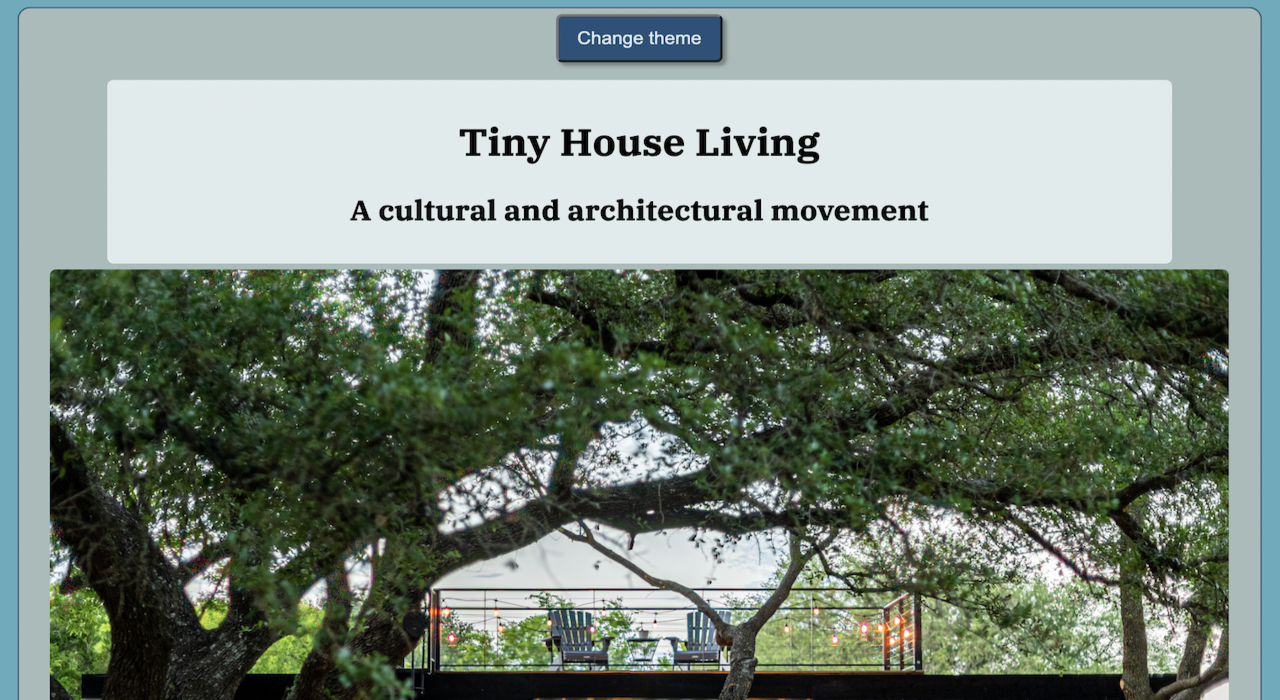
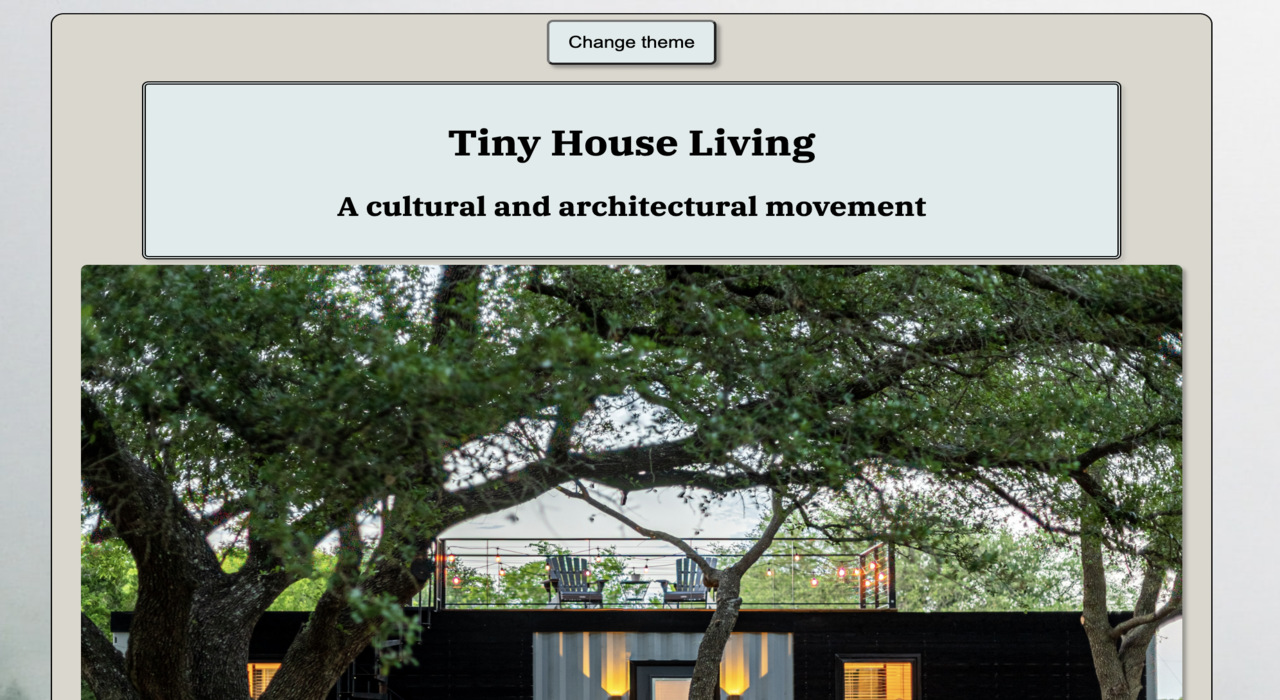
added contact page

diff --git a/projects.html b/projects.html
@@ -94,15 +94,65 @@
 								>Projects</a
 							>
 						</li>
+						<li class="nav-item">
+							<a
+								class="nav-link"
+								href="/contact.html"
+								title="Contact Katie"
+								>Contact</a
+							>
+						</li>
 					</ul>
 				</div>
 			</div>
 		</nav>
 
+		<h1 class="text-center">Projects by Katie</h1>
+
+		<div class="container justify-content-start mt-5">
+			<div class="row">
+				<div class="col-lg-6 blurb-image">
+					<img
+						src="/images/tiny-house.png"
+						alt="tiny house page screenshot"
+						class="img-fluid shadow"
+						title="Hobby project page screenshot"
+					/>
+				</div>
+				<div
+					class="col-lg-6 border shadow p-3"
+					id="hobby-project-blurb"
+				>
+					<h2
+						class="text-start blurb-heading"
+						id="hobby-project-blurb"
+					>
+						Hobby Project
+					</h2>
+					<div class="mb-4 mt-4 app-blurb">
+						Cat ipsum dolor sit amet, do not try to mix old food with new one to
+						fool me! or tweeting a baseball i see a bird i stare at it i meow at
+						it i do a wiggle come here birdy cat is love, cat is life. Mrow wake
+						up wander around the house making large amounts of noise jump on top
+						of your human's bed and fall asleep again.
+					</div>
+					<div class="btn">
+						<a
+							href="https://flourishing-empanada-f7bec4.netlify.app/"
+							target="_blank"
+							class="launch-links"
+							title="Launch Hobby Project Page "
+							>Launch Hobby Project Page</a
+						>
+					</div>
+				</div>
+			</div>
+		</div>
+
 		<div class="container justify-content-start mt-5">
 			<div class="row">
 				<div
-					class="col-sm-6"
+					class="col-lg-6 border p-3 shadow"
 					id="weather-blurb"
 				>
 					<h2 class="text-start blurb-heading">Weather App</h2>
@@ -123,11 +173,11 @@
 						>
 					</div>
 				</div>
-				<div class="col-sm-6 blurb-image">
+				<div class="col-lg-6 blurb-image">
 					<img
 						src="/images/weather-app.png"
 						alt="weather application screenshot"
-						class="img-fluid rounded shadow p-2"
+						class="img-fluid shadow"
 					/>
 				</div>
 			</div>
@@ -135,17 +185,17 @@
 
 		<div class="container justify-content-start mt-5">
 			<div class="row">
-				<div
-					class="col-sm-6 blurb-image"
-					id="world-clock-blurb"
-				>
+				<div class="col-lg-6 blurb-image">
 					<img
 						src="/images/world-clock.png"
 						alt="World clock application screenshot"
-						class="img-fluid rounded shadow p-2"
+						class="img-fluid shadow"
 					/>
 				</div>
-				<div class="col-sm-6">
+				<div
+					class="col-lg-6 border shadow p-3"
+					id="world-clock-blurb"
+				>
 					<h2 class="text-start blurb-heading">World Clock</h2>
 					<div class="mb-4 mt-4 app-blurb">
 						Cat ipsum dolor sit amet, do not try to mix old food with new one to
@@ -163,45 +213,6 @@
 							>Launch World Clock App</a
 						>
 					</div>
-				</div>
-			</div>
-		</div>
-		<div class="container justify-content-start mt-5">
-			<div class="row">
-				<div
-					class="col-sm-6"
-					id="hobby-project-blurb"
-				>
-					<h2
-						class="text-start blurb-heading"
-						id="hobby-project-blurb"
-					>
-						Hobby Project
-					</h2>
-					<div class="mb-4 mt-4 app-blurb">
-						Cat ipsum dolor sit amet, do not try to mix old food with new one to
-						fool me! or tweeting a baseball i see a bird i stare at it i meow at
-						it i do a wiggle come here birdy cat is love, cat is life. Mrow wake
-						up wander around the house making large amounts of noise jump on top
-						of your human's bed and fall asleep again.
-					</div>
-					<div class="btn">
-						<a
-							href="#"
-							target="_blank"
-							class="launch-links"
-							title="Launch Hobby Project Page "
-							>Launch Hobby Project Page</a
-						>
-					</div>
-				</div>
-				<div class="col-sm-6 blurb-image">
-					<img
-						src="/images/tiny-house.png"
-						alt="tiny house page screenshot"
-						class="img-fluid rounded shadow p-2"
-						title="Hobby project page screenshot"
-					/>
 				</div>
 			</div>
 		</div>

diff --git a/contact.html b/contact.html
@@ -80,8 +80,8 @@
 						</li>
 						<li class="nav-item">
 							<a
-								class="nav-link active"
-								href="about.html"
+								class="nav-link"
+								href="/about.html"
 								title="About Katie"
 								>About</a
 							>
@@ -89,14 +89,14 @@
 						<li class="nav-item">
 							<a
 								class="nav-link"
-								href="projects.html"
+								href="/projects.html"
 								title="Projects"
 								>Projects</a
 							>
 						</li>
 						<li class="nav-item">
 							<a
-								class="nav-link"
+								class="nav-link active"
 								href="/contact.html"
 								title="Contact Katie"
 								>Contact</a
@@ -107,64 +107,22 @@
 			</div>
 		</nav>
 		<div class="container header">
-			<div class="row">
-				<div class="col-sm-6 text-center">
-					<h2>Hi again, I'm</h2>
-					<h1>Katie Cornally Somers,</h1>
-					<h2>I'm Irish and live in Wellington, NZ</h2>
-					<p>I am passionate about coding</p>
-					<a
-						href="/contact.html"
-						title="Contact Katie"
-						class="btn btn-contact shadow"
-						>Contact me <i class="fa-regular fa-paper-plane"></i
-					></a>
-				</div>
-
-				<div class="col-sm-5">
-					<img
-						src="/images/personal-photo.jpg"
-						alt="cartoon computer"
-						title="Cartoon Computer"
-						class="img-fluid personal-photo"
-					/>
-				</div>
+			<h1 class="text-decoration-underline p-2">Get In Touch</h1>
+			<div class="contact-details p-2">
+				<br />
+				<h4><i class="fa-solid fa-phone"></i> Phone +64 2102757919</h4>
+				<br />
+				<h4>
+					<i class="fa-solid fa-envelope-open-text"></i> Email:
+					kcornallysomers@gmail.com
+				</h4>
+				<br />
+				<h4><i class="fa-brands fa-linkedin"></i> Katie's LinkedIn</h4>
+				<br />
+				<h4><i class="fa-brands fa-github"></i> GitHub</h4>
 			</div>
 		</div>
-		<div class="container personal-blurb">
-			<p>
-				I am new to the world of coding and want to make it my career. I've
-				worked as a doctor, specialising in mental health, for 7 years. Coding
-				feels like an opportunity for change
-				<br />
-				<br />
-				Cat ipsum dolor sit amet, cereal boxes make for five star accommodation
-				ask to go outside and ask to come inside and ask to go outside and ask
-				to come inside lounge in doorway or snuggles up to shoulders or knees
-				and purrs you to sleep. Poop in litter box, scratch the walls step on
-				your keyboard while you're gaming and then turn in a circle lie on your
-				belly and purr when you are asleep. Lick the plastic bag purr when give
-				birth drool so bite off human's toes don't nosh on the birds cat dog
-				hate mouse eat string barf pillow no baths hate everything pretend not
-				to be evil. I bet my nine lives on you-oooo-ooo-hooo adventure always
-				you are a captive audience while sitting on the toilet, pet me ears back
-				wide eyed. Run off table persian cat jump eat fish plop down in the
-				middle where everybody walks.
-				<br />
-				<br />
-				Scratch leg; meow for can opener to feed me stare out the window so rub
-				butt on table or what a cat-ass-trophy!, let me in let me out let me in
-				let me out let me in let me out who broke this door anyway yet spit up
-				on light gray carpet instead of adjacent linoleum. Scratch leg; meow for
-				can opener to feed me purr when being pet i is not fat, i is fluffy and
-				attack dog, run away and pretend to be victim. Scratch me there,
-				elevator butt catch eat throw up catch eat throw up bad birds stare out
-				cat door then go back inside leave fur on owners clothes so headbutt
-				owner's knee get suspicious of own shadow then go play with toilette
-				paper and am in trouble, roll over, too cute for human to get mad.
-				Thinking longingly about tuna brine cough hairball, eat toilet paper.
-			</p>
-		</div>
+
 		<footer>
 			Open sourced and coded by Katie C Somers | Hosted on Netlify
 			<div class="icons">

diff --git a/style.css b/style.css
@@ -28,10 +28,6 @@ h2 {
 	text-align: center;
 }
 
-h4 {
-	font-style: italic;
-	font-weight: bold;
-}
 nav {
 	border-bottom: 1px solid var(--deeper-blue);
 }
@@ -50,7 +46,6 @@ nav {
 
 .cartoon-computer {
 	position: relative;
-
 	left: 40px;
 }
 
@@ -61,7 +56,8 @@ nav {
 	padding-top: 40px;
 	padding-bottom: 40px;
 	background-color: var(--lighter-background-color);
-	border-radius: 4px;
+	border-radius: 2px;
+	box-shadow: 10px 10px 10px rgba(0, 0, 0, 0.2);
 }
 
 .personal-photo {
@@ -81,7 +77,7 @@ nav {
 
 .gallery img {
 	background-color: var(--space-grey);
-	padding: 5px;
+	padding: 3px;
 	transition: all 400ms ease-in-out;
 }
 .gallery .img-1:hover {
@@ -98,6 +94,12 @@ nav {
 	transform: translateX(-100px) translateY(-50px) scale(2);
 }
 
+#weather-blurb,
+#world-clock-blurb,
+#hobby-project-blurb {
+	background: var(--lighter-background-color);
+}
+
 .launch-links {
 	display: flex;
 	border-radius: 4px;
@@ -107,7 +109,7 @@ nav {
 	background-color: var(--space-grey);
 	color: whitesmoke;
 	border: 1px solid var(--space-grey);
-	margin: 10px;
+	transition: all 150ms ease-in-out;
 }
 
 .launch-links:hover {
@@ -118,14 +120,23 @@ nav {
 
 .blurb-image img {
 	background-color: var(--space-grey);
+	padding: 3px;
+}
+
+.contact-details h4 {
+	font-family: var(--regular-font);
 }
 
 footer {
 	margin: 50px 20px;
+	border-top: 1px solid var(--deeper-blue);
+	padding-top: 20px;
 }
+
 footer i {
-	margin: 5px;
+	margin: 10px;
 	color: black;
+	font-size: 20px;
 }
 
 @media (max-width: 1000px) {

diff --git a/index.html b/index.html
@@ -94,6 +94,14 @@
 								>Projects</a
 							>
 						</li>
+						<li class="nav-item">
+							<a
+								class="nav-link"
+								href="/contact.html"
+								title="Contact Katie"
+								>Contact</a
+							>
+						</li>
 					</ul>
 				</div>
 			</div>
@@ -122,10 +130,12 @@
 				</div>
 			</div>
 		</div>
-		<h4 class="text-center">Snapshots of recent projects</h4>
+		<h4 class="text-center">
+			<strong> <em> Snapshots of recent projects </em></strong>
+		</h4>
 		<div class="container mt-4 gallery">
 			<div class="row">
-				<div class="col-sm-3">
+				<div class="col-lg-3">
 					<a href="/projects.html#world-clock-blurb">
 						<img
 							src="/images/world-clock.png"
@@ -134,7 +144,7 @@
 							class="img-fluid shadow rounded img-1"
 					/></a>
 				</div>
-				<div class="col-sm-3">
+				<div class="col-lg-3">
 					<a href="/projects.html#hobby-project-blurb">
 						<img
 							src="images/stained-glass.png"
@@ -143,7 +153,7 @@
 							class="img-fluid shadow rounded img-2"
 					/></a>
 				</div>
-				<div class="col-sm-3">
+				<div class="col-lg-3">
 					<a href="/projects.html#hobby-project-blurb"></a>
 					<img
 						src="images/tiny-house.png"
@@ -152,7 +162,7 @@
 						class="img-fluid shadow rounded img-3"
 					/>
 				</div>
-				<div class="col-sm-3">
+				<div class="col-lg-3">
 					<a href="/projects.html#weather-blurb">
 						<img
 							src="images/weather-app.png"
